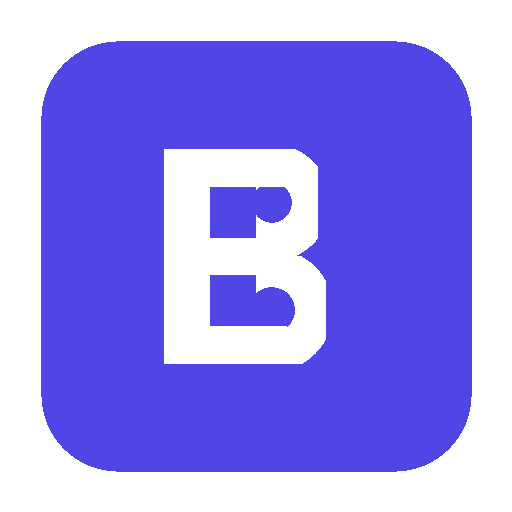
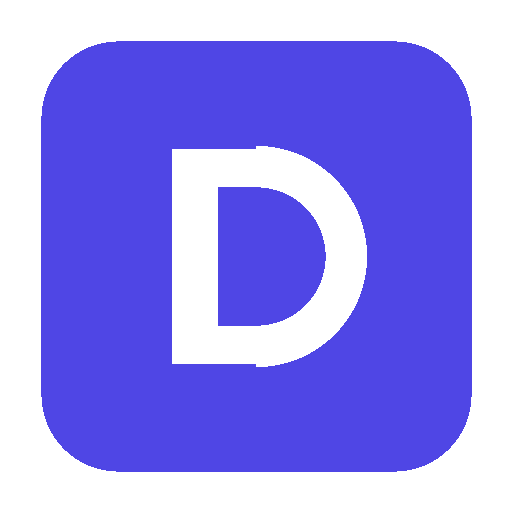
Rename to Domain CRM, polish sidebar and mobile UI
- Renamed BITS CRM -> Domain CRM everywhere
- Updated PWA icons with D lettermark
- Sidebar: accent-colored logo with icon, cleaner spacing,
  smoother hover/active states, touch-friendly tap targets
- Mobile sidebar: smooth translateX slide animation, larger
  touch targets, wider panel (300px)

diff --git a/css/styles.css b/css/styles.css
@@ -357,7 +357,7 @@ a:hover { color: var(--accent-hover); }
   width: var(--sidebar-width);
   min-width: var(--sidebar-width);
   background: var(--bg);
-  border-right: 1px solid var(--border);
+  border-right: 1px solid var(--border-light);
   display: flex;
   flex-direction: column;
   height: 100vh;
@@ -365,15 +365,28 @@ a:hover { color: var(--accent-hover); }
 }
 
 .sidebar-header {
-  padding: var(--sp-5) var(--sp-5) var(--sp-4);
-  border-bottom: 1px solid var(--border-light);
+  padding: var(--sp-5) var(--sp-4) var(--sp-4);
 }
 
 .sidebar-logo {
-  font-size: var(--font-size-lg);
+  font-size: var(--font-size-md);
   font-weight: 700;
-  color: var(--text);
-  margin-bottom: var(--sp-3);
+  color: var(--accent);
+  letter-spacing: -0.02em;
+  margin-bottom: var(--sp-4);
+  display: flex;
+  align-items: center;
+  gap: var(--sp-2);
+}
+
+.sidebar-logo::before {
+  content: '';
+  display: inline-block;
+  width: 24px;
+  height: 24px;
+  background: var(--accent);
+  border-radius: var(--radius-sm);
+  flex-shrink: 0;
 }
 
 .sidebar-search {
@@ -382,9 +395,9 @@ a:hover { color: var(--accent-hover); }
 
 .sidebar-search input {
   width: 100%;
-  padding: var(--sp-2) var(--sp-3) var(--sp-2) 32px;
-  border: 1px solid var(--border);
-  border-radius: var(--radius);
+  padding: 10px var(--sp-3) 10px 36px;
+  border: 1px solid var(--border-light);
+  border-radius: var(--radius-md);
   font-family: var(--font);
   font-size: var(--font-size-sm);
   color: var(--text);
@@ -405,7 +418,7 @@ a:hover { color: var(--accent-hover); }
 
 .sidebar-search svg {
   position: absolute;
-  left: var(--sp-2);
+  left: 10px;
   top: 50%;
   transform: translateY(-50%);
   color: var(--text-tertiary);
@@ -415,11 +428,12 @@ a:hover { color: var(--accent-hover); }
 .sidebar-nav {
   flex: 1;
   overflow-y: auto;
-  padding: var(--sp-3) var(--sp-2);
+  padding: var(--sp-3) var(--sp-3);
+  -webkit-overflow-scrolling: touch;
 }
 
 .sidebar-nav::-webkit-scrollbar {
-  width: 4px;
+  width: 3px;
 }
 .sidebar-nav::-webkit-scrollbar-track {
   background: transparent;
@@ -430,37 +444,43 @@ a:hover { color: var(--accent-hover); }
 }
 
 .sidebar-section {
-  margin-bottom: var(--sp-4);
+  margin-bottom: var(--sp-3);
 }
 
 .sidebar-section-title {
-  font-size: var(--font-size-xs);
-  font-weight: 500;
+  font-size: 11px;
+  font-weight: 600;
   color: var(--text-tertiary);
   text-transform: uppercase;
-  letter-spacing: 0.05em;
-  padding: var(--sp-2) var(--sp-3);
+  letter-spacing: 0.06em;
+  padding: var(--sp-2) var(--sp-3) var(--sp-1);
 }
 
 .sidebar-item {
   display: flex;
   align-items: center;
   gap: var(--sp-3);
-  padding: var(--sp-2) var(--sp-3);
+  padding: 9px var(--sp-3);
   border-radius: var(--radius);
   cursor: pointer;
   transition: var(--transition-fast);
   font-size: var(--font-size-base);
-  color: var(--text);
+  color: var(--text-secondary);
   border: none;
   background: none;
   width: 100%;
   text-align: left;
   font-family: var(--font);
+  -webkit-tap-highlight-color: transparent;
 }
 
 .sidebar-item:hover {
   background: var(--bg-secondary);
+  color: var(--text);
+}
+
+.sidebar-item:active {
+  background: var(--bg-tertiary);
 }
 
 .sidebar-item.active {
@@ -473,9 +493,9 @@ a:hover { color: var(--accent-hover); }
   display: flex;
   align-items: center;
   justify-content: center;
-  width: 20px;
+  width: 22px;
   flex-shrink: 0;
-  font-size: var(--font-size-base);
+  font-size: var(--font-size-md);
 }
 
 .sidebar-item-label {
@@ -486,15 +506,18 @@ a:hover { color: var(--accent-hover); }
 }
 
 .sidebar-item-count {
-  font-size: var(--font-size-xs);
+  font-size: 11px;
   color: var(--text-tertiary);
   background: var(--bg-secondary);
-  padding: 1px 6px;
+  padding: 2px 7px;
   border-radius: var(--radius-pill);
+  font-weight: 500;
+  min-width: 20px;
+  text-align: center;
 }
 
 .sidebar-item.active .sidebar-item-count {
-  background: rgba(79, 70, 229, 0.1);
+  background: rgba(79, 70, 229, 0.12);
   color: var(--accent);
 }
 
@@ -502,7 +525,7 @@ a:hover { color: var(--accent-hover); }
   display: flex;
   align-items: center;
   gap: var(--sp-2);
-  padding: var(--sp-2) var(--sp-3);
+  padding: 9px var(--sp-3);
   color: var(--text-tertiary);
   font-size: var(--font-size-sm);
   cursor: pointer;
@@ -512,6 +535,7 @@ a:hover { color: var(--accent-hover); }
   font-family: var(--font);
   border-radius: var(--radius);
   transition: var(--transition-fast);
+  -webkit-tap-highlight-color: transparent;
 }
 
 .sidebar-add-group:hover {
@@ -519,8 +543,14 @@ a:hover { color: var(--accent-hover); }
   background: var(--accent-light);
 }
 
+.sidebar-divider {
+  height: 1px;
+  background: var(--border-light);
+  margin: var(--sp-2) var(--sp-3);
+}
+
 .sidebar-footer {
-  padding: var(--sp-3) var(--sp-4);
+  padding: var(--sp-3) var(--sp-3);
   border-top: 1px solid var(--border-light);
 }
 
@@ -528,10 +558,11 @@ a:hover { color: var(--accent-hover); }
   display: flex;
   align-items: center;
   gap: var(--sp-3);
-  padding: var(--sp-2);
+  padding: var(--sp-2) var(--sp-2);
   border-radius: var(--radius);
   cursor: pointer;
   transition: var(--transition-fast);
+  -webkit-tap-highlight-color: transparent;
 }
 
 .sidebar-user:hover {
@@ -1630,26 +1661,55 @@ a:hover { color: var(--accent-hover); }
 @media (max-width: 768px) {
   .sidebar {
     position: fixed;
-    left: -280px;
+    left: 0;
     top: 0;
     z-index: 50;
-    transition: var(--transition-slow);
+    transform: translateX(-100%);
+    transition: transform var(--transition-slow);
     box-shadow: none;
-    width: 280px;
-    min-width: 280px;
+    width: 300px;
+    min-width: 300px;
+    border-right: none;
   }
 
   .sidebar.open {
-    left: 0;
+    transform: translateX(0);
     box-shadow: var(--shadow-xl);
+  }
+
+  .sidebar-overlay {
+    transition: opacity var(--transition-slow);
+    opacity: 0;
   }
 
   .sidebar-overlay.open {
     display: block;
+    opacity: 1;
   }
 
   .sidebar-toggle {
     display: flex;
+  }
+
+  .sidebar-header {
+    padding: var(--sp-5) var(--sp-5) var(--sp-4);
+  }
+
+  .sidebar-nav {
+    padding: var(--sp-3) var(--sp-4);
+  }
+
+  .sidebar-item {
+    padding: 12px var(--sp-3);
+    font-size: var(--font-size-md);
+  }
+
+  .sidebar-add-group {
+    padding: 12px var(--sp-3);
+  }
+
+  .sidebar-footer {
+    padding: var(--sp-4) var(--sp-4);
   }
 
   .main-body {

diff --git a/app.html b/app.html
@@ -3,12 +3,12 @@
 <head>
   <meta charset="UTF-8">
   <meta name="viewport" content="width=device-width, initial-scale=1.0, maximum-scale=1.0, user-scalable=no">
-  <title>BITS CRM</title>
-  <meta name="description" content="BITS Personal CRM">
+  <title>Domain CRM</title>
+  <meta name="description" content="Domain Personal CRM">
   <meta name="theme-color" content="#4F46E5">
   <meta name="apple-mobile-web-app-capable" content="yes">
   <meta name="apple-mobile-web-app-status-bar-style" content="black-translucent">
-  <meta name="apple-mobile-web-app-title" content="BITS CRM">
+  <meta name="apple-mobile-web-app-title" content="Domain CRM">
   <link rel="manifest" href="manifest.json">
   <link rel="apple-touch-icon" href="icons/icon-192.png">
   <link rel="preconnect" href="https://fonts.googleapis.com">
@@ -24,7 +24,7 @@
     <!-- Sidebar -->
     <aside class="sidebar" id="sidebar">
       <div class="sidebar-header">
-        <div class="sidebar-logo">BITS CRM</div>
+        <div class="sidebar-logo">Domain CRM</div>
         <div class="sidebar-search">
           <svg width="15" height="15" viewBox="0 0 24 24" fill="none" stroke="currentColor" stroke-width="2" stroke-linecap="round" stroke-linejoin="round"><circle cx="11" cy="11" r="8"/><line x1="21" y1="21" x2="16.65" y2="16.65"/></svg>
           <input type="text" id="search-input" placeholder="Search contacts... (⌘K)">

diff --git a/login.html b/login.html
@@ -3,12 +3,12 @@
 <head>
   <meta charset="UTF-8">
   <meta name="viewport" content="width=device-width, initial-scale=1.0, maximum-scale=1.0, user-scalable=no">
-  <title>BITS CRM — Sign In</title>
-  <meta name="description" content="BITS Personal CRM">
+  <title>Domain CRM — Sign In</title>
+  <meta name="description" content="Domain Personal CRM">
   <meta name="theme-color" content="#4F46E5">
   <meta name="apple-mobile-web-app-capable" content="yes">
   <meta name="apple-mobile-web-app-status-bar-style" content="black-translucent">
-  <meta name="apple-mobile-web-app-title" content="BITS CRM">
+  <meta name="apple-mobile-web-app-title" content="Domain CRM">
   <link rel="manifest" href="manifest.json">
   <link rel="apple-touch-icon" href="icons/icon-192.png">
   <link rel="preconnect" href="https://fonts.googleapis.com">
@@ -18,7 +18,7 @@
 </head>
 <body class="login-page">
   <div class="login-card">
-    <div class="login-logo">BITS CRM</div>
+    <div class="login-logo">Domain CRM</div>
     <div class="login-subtitle">Personal relationship manager</div>
 
     <div id="login-error" class="login-error"></div>
